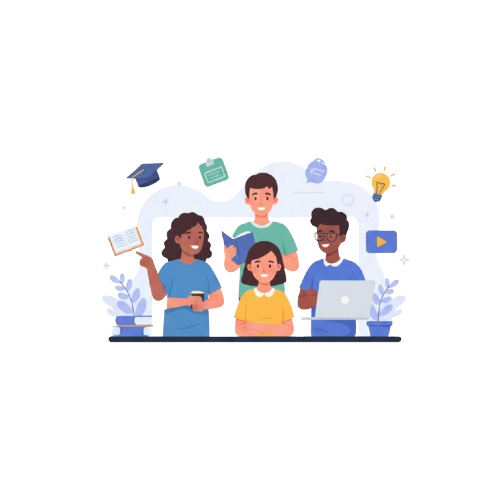
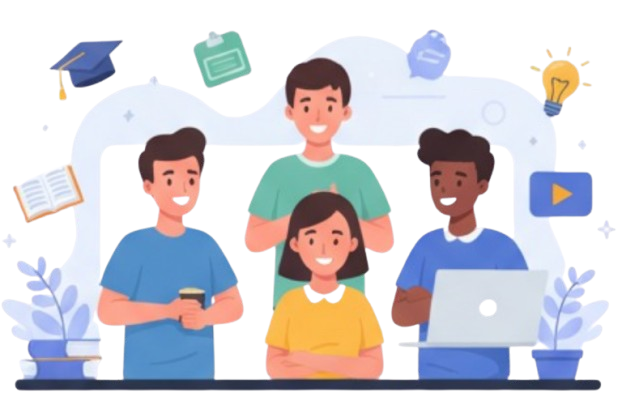
Improved Home Page

diff --git a/frontend/src/Components/HeroSection.jsx b/frontend/src/Components/HeroSection.jsx
@@ -2,7 +2,7 @@ import React from 'react';
 import Hero from '../assets/Hero.png';
 
 const HeroSection = () => (
-    <section className="flex flex-col md:flex-row items-center justify-between pt-10 px-20 bg-blue-100">
+    <section className="flex flex-col md:flex-row items-center justify-between  px-30 bg-blue-100 h-120">
         <div className="lg:w-1/2 mb-10 lg:mb-0">
             <h1 className="text-5xl font-bold text-gray-900 leading-tight">
                 Unlock Your Potential.<br />
@@ -13,7 +13,7 @@ const HeroSection = () => (
                 Explore thousands courses from experts worldwide.
             </p>
 
-            <div className="mt-8 flex items-center border border-gray-300 rounded-lg p-3 max-w-sm shadow-sm focus-within:ring-2 focus-within:ring-indigo-500 transition-all">
+            <div className="mt-8 flex items-center border border-gray-300 rounded-lg p-3 max-w-sm shadow-sm focus-within:ring-2 focus-within:ring-indigo-500 transition-all bg-white shadow-xl">
                 <svg className="w-5 h-5 text-gray-400 mr-2" fill="none" stroke="currentColor" viewBox="0 0 24 24" xmlns="http://www.w3.org/2000/svg"><path strokeLinecap="round" strokeLinejoin="round" strokeWidth="2" d="M21 21l-6-6m2-5a7 7 0 11-14 0 7 7 0 0114 0z"></path></svg>
                 <input
                     type="text"
@@ -29,8 +29,7 @@ const HeroSection = () => (
 
                 <img
                     src={Hero}
-                    alt="Group of students learning"
-                    className="h-150 w-300 rounded"
+                    className="h-100 w-screen rounded"
                 />
             </div>
         </div>

diff --git a/frontend/src/Components/Navbar.jsx b/frontend/src/Components/Navbar.jsx
@@ -3,16 +3,16 @@ import { User } from 'lucide-react';
 import user from '../assets/user.png';
 export default function Navbar() {
   return (
-    <div>
+    <div className='sticky top-0 z-50'>
       <div className='flex items-center justify-between px-20 py-5 bg-white shadow-2xl'>
         <div>
             <p className='font-bold text-2xl'>HelloSkills</p>
         </div>
         <div>
             <ul className='flex gap-20'>
-                <li className='cursor-pointer'>Courses</li>
-                <li className='cursor-pointer'>About Us</li>
-                <li className='cursor-pointer'>Contact</li>
+                <li className='cursor-pointer hover:border-b-2 hover:border-blue-200 transition duration-500'>Courses</li>
+                <li className='cursor-pointer hover:border-b-2 hover:border-blue-200 transition duration-500'>About Us</li>
+                <li className='cursor-pointer hover:border-b-2 hover:border-blue-200 transition duration-500'>Contact</li>
             </ul>
         </div>
         <div className='flex gap-3 items-center'>
